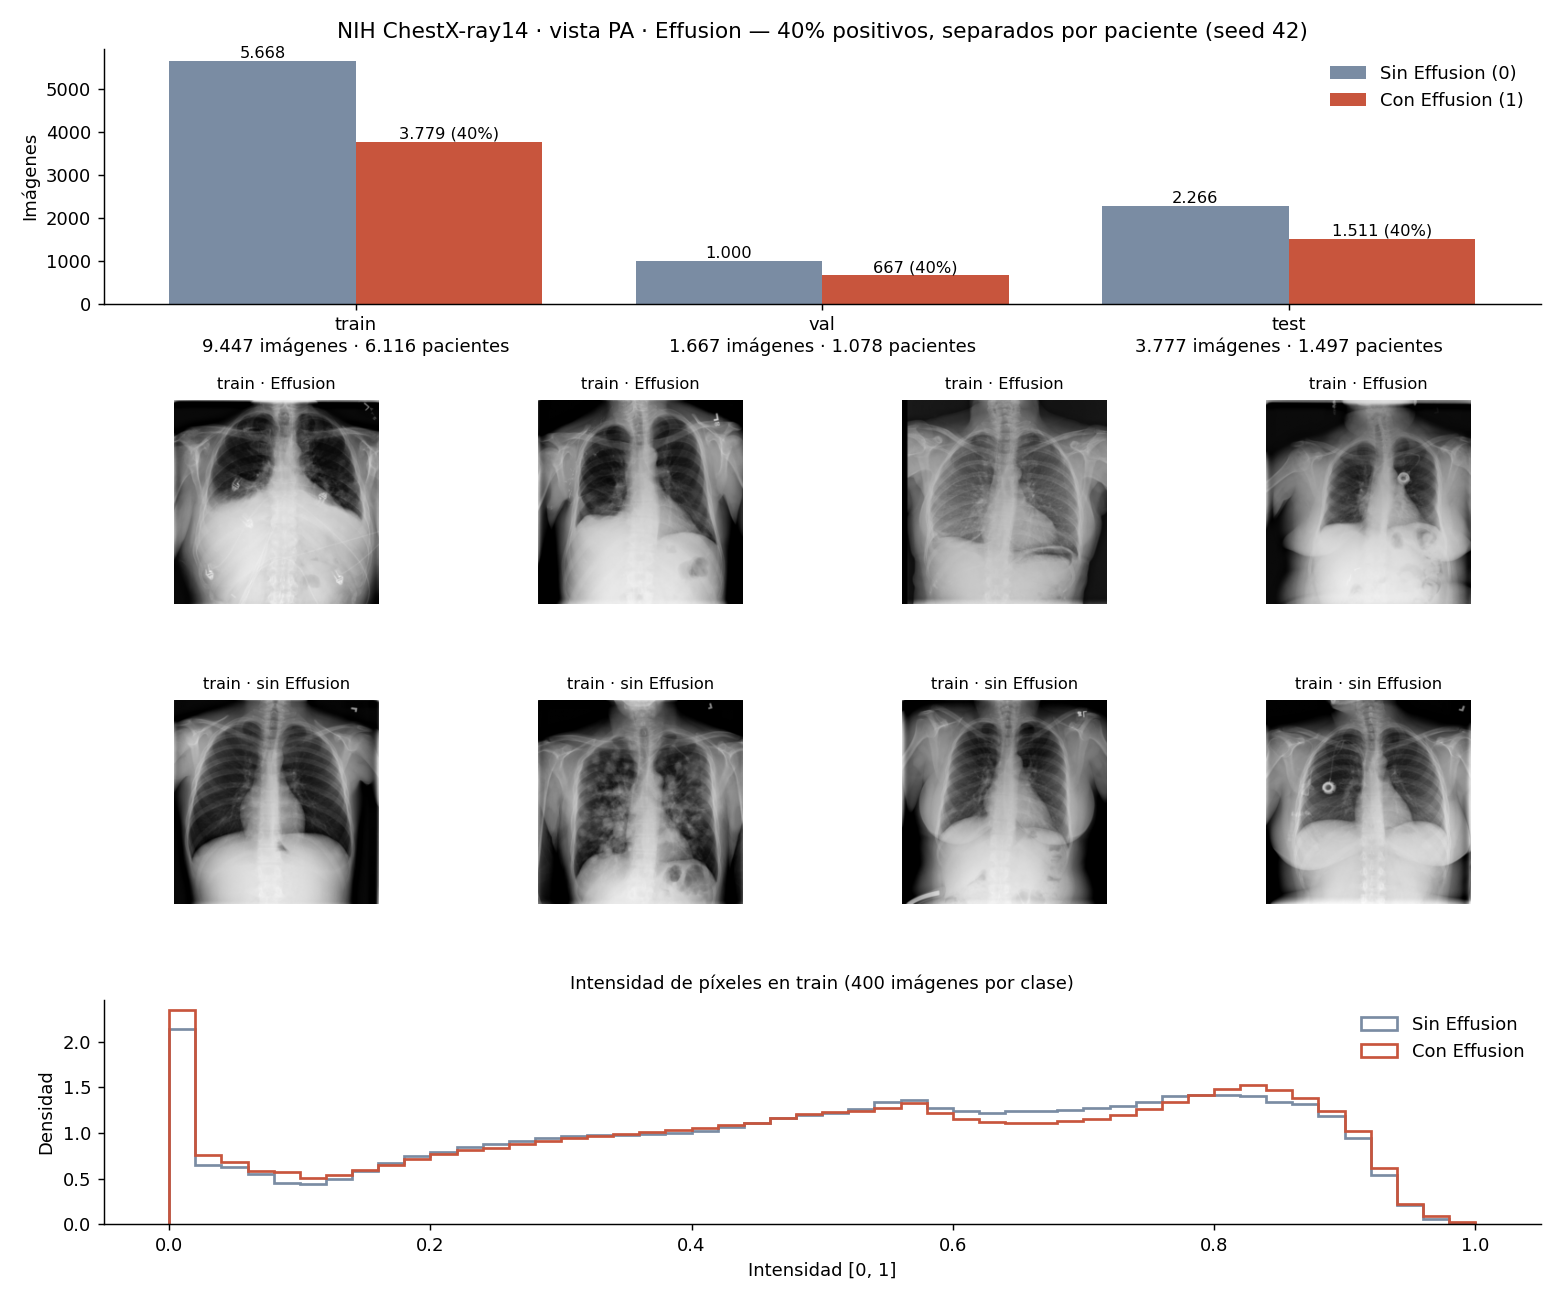
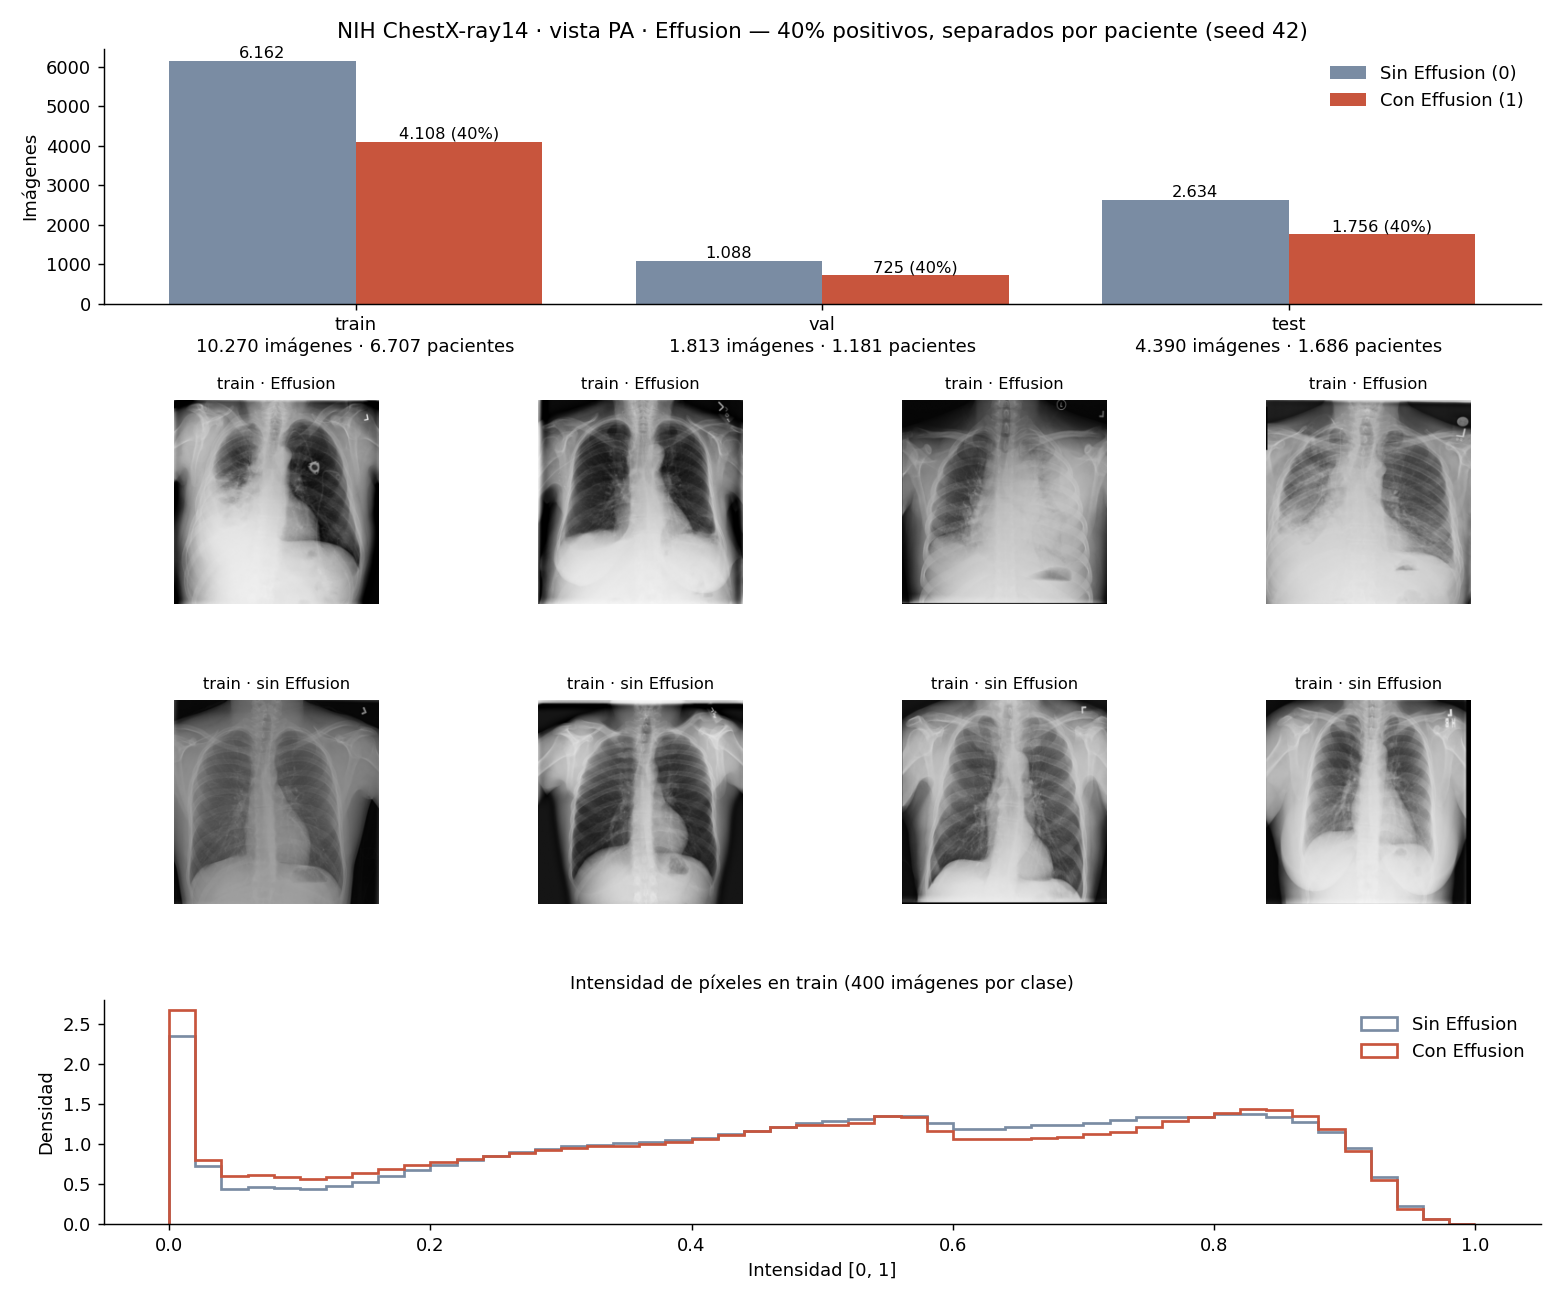
docs: actualiza splits NIH Effusion con images_010

diff --git a/docs/SPLITS_NIH_EFFUSION.md b/docs/SPLITS_NIH_EFFUSION.md
@@ -1,8 +1,8 @@
 # Train, validación y test: NIH ChestX-ray14 · Effusion
 
-**Config:** [`configs/nih.json`](../configs/nih.json) · **Seed:** 42 · **Salida:** `data/processed/nih_effusion_pa_40_60_v1/` (2,8 GB, fuera de git)
+**Config:** [`configs/nih.json`](../configs/nih.json) · **Seed:** 42 · **Salida:** `data/processed/nih_effusion_pa_40_60_v1/` (3,1 GB, fuera de git)
 
-**Comando:** `.venv/bin/python -m rx_torax.prepare --config configs/nih.json`
+**Comando:** `PYTHONPATH=src .venv/bin/python -m rx_torax.prepare --config configs/nih.json`
 
 Reemplaza a la versión de Pneumothorax ([`SPLITS_NIH_PNEUMOTHORAX.md`](SPLITS_NIH_PNEUMOTHORAX.md)), que tenía 3,6% de positivos en train y 13,9% en test.
 
@@ -17,26 +17,23 @@ Clasificación binaria sobre radiografías **PA**:
 
 | Conjunto | Total | Con Effusion | Sin hallazgos | Otros hallazgos | Pacientes |
 |---|---|---|---|---|---|
-| **Train** | 9.447 | 3.779 (40%) | 3.684 (39%) | 1.984 (21%) | 6.116 |
-| **Val** | 1.667 | 667 (40%) | 650 (39%) | 350 (21%) | 1.078 |
-| **Test** | 3.777 | 1.511 (40%) | 1.473 (39%) | 793 (21%) | 1.497 |
-| **Total** | **14.891** | **5.957** | **5.807** | **3.127** | **8.691** |
+| **Train** | 10.270 | 4.108 (40%) | 4.005 (39%) | 2.157 (21%) | 6.707 |
+| **Val** | 1.813 | 725 (40%) | 707 (39%) | 381 (21%) | 1.181 |
+| **Test** | 4.390 | 1.756 (40%) | 1.712 (39%) | 922 (21%) | 1.686 |
+| **Total** | **16.473** | **6.589** | **6.424** | **3.460** | **9.574** |
 
 ## Datos usados
-De las 112.120 filas del CSV:
+De las 112.120 filas del CSV, con los 12 archivos de imágenes completos:
 
 | Motivo | Filas |
 |---|---|
-| Vista AP, excluida | 41.575 |
-| `images_010` no disponible | 10.000 |
+| Vista AP, excluida | 44.810 |
 | Imágenes duplicadas, excluidas | 12 |
-| **Aceptadas (PA)** | **60.533** |
+| **Aceptadas (PA)** | **67.298** |
 
-De las aceptadas se usan todas las positivas (5.957) y una muestra de negativas (8.934). Las demás no se borran: simplemente no entran en los arrays.
+De las aceptadas se usan todas las positivas (6.589) y una muestra de negativas (9.884). Las demás no se borran: simplemente no entran en los arrays.
 
-**Datos incompletos:** falta `images_010`, porque la carpeta descargada como `images 10` es una copia de `images 12`. Con ese archivo se sumarían 632 Effusion PA (~1.580 imágenes en total).
-
-**Ubicación de las imágenes:** el pipeline las busca dentro de `data/raw/nih/`. Hoy `data/raw/nih/images/` tiene enlaces simbólicos a las carpetas descargadas, sin `images 10`, porque los nombres repetidos se excluyen como ambiguos.
+**Ubicación de las imágenes:** el pipeline las busca dentro de `data/raw/nih/`. Hoy `data/raw/nih/images/` tiene enlaces simbólicos a las carpetas descargadas. La carpeta `images 10` no se usa porque es una copia de `images 12`; `images_010` se descargó de nuevo en `images 10 ok`.
 
 ## Flujo aplicado
 1. **Selección de vista:** solo PA.
@@ -44,7 +41,7 @@ De las aceptadas se usan todas las positivas (5.957) y una muestra de negativas 
 3. **Split por paciente:** test es el oficial de NIH. Val es el 15% de los pacientes de `train_val_list.txt`.
 4. **Selección 60/40 en cada conjunto:** todas las positivas y negativas al azar con seed fija. Las negativas son 65% sin hallazgos y 35% con otros hallazgos (mezcla real en PA), con hasta 3 por paciente.
 5. **Transformación:** escala de grises, 224×224 sin deformar (bordes negros) e intensidades en [0, 1].
-6. **Estadísticas solo con train:** media 0,510 y desvío 0,265, guardadas en `preprocessing.json` para aplicarlas sin recalcular a val, test e imágenes nuevas.
+6. **Estadísticas solo con train:** media 0,508 y desvío 0,265, guardadas en `preprocessing.json` para aplicarlas sin recalcular a val, test e imágenes nuevas.
 
 No se repiten imágenes ni se aplica augmentation en esta etapa.
 
@@ -53,19 +50,19 @@ Se validaron contra el CSV original, con un script aparte del pipeline:
 - 0 pacientes compartidos y 0 imágenes idénticas entre conjuntos.
 - Todas las imágenes son PA, y cada `y` coincide con su etiqueta original.
 - Test contiene solo imágenes de `test_list.txt`; train y val, solo de `train_val_list.txt`.
-- Están las 5.957 Effusion PA disponibles.
+- Están las 6.589 Effusion PA disponibles.
 - 40,0% de positivos y 65,0% de negativas sin hallazgos en los tres conjuntos.
 - Máximo de 3 negativas por paciente en cada conjunto.
-- Edad media con/sin Effusion: 51,2/46,9 años en train y 49,3/47,2 en test. Hombres con/sin Effusion: 53%/54% en train y 55%/56% en test.
+- Edad media con/sin Effusion: 51,3/46,5 años en train y 49,9/47,2 en test. Hombres con/sin Effusion: 55%/54% en train y 55%/56% en test.
 
 ## Diferencia con el material de clase
 La [notebook de desbalance](../git-profe/06_feature_engineering_avanzado/03_desbalance.ipynb) y el flujo de preparación balancean **solo train**. Acá también se ajustan val y test porque el profesor pidió el mismo porcentaje en train y test. En val y test solo se eligen imágenes: no se repite ninguna ni se generan sintéticas.
 
-**Consecuencia:** la proporción real en PA es ~10% en todo NIH y 14,9% en el test oficial disponible. Con 40%, la precisión y el F1 salen más altos que con esas proporciones. Recall, especificidad y AUC dependen mucho menos de la proporción.
+**Consecuencia:** la proporción real en PA es ~10% en todo NIH y 15,8% en el test oficial. Con 40%, la precisión y el F1 salen más altos que con esas proporciones. Recall, especificidad y AUC dependen mucho menos de la proporción.
 
 ## Limitaciones
-- **Dispositivos:** en una muestra chica de 96 fotos, revisada a ojo, se ven cables, catéteres, puertos o implantes en ~30% de las positivas y ~13% de las negativas. NIH no los marca, así que siguen incluidos. El modelo podría aprender esa señal: hay que medirlo en la evaluación.
-- **Calidad de imagen:** en una muestra de 4.000 fotos PA, los marcos blancos rondan el 0,3% y el contraste bajo el 1,3%. Se ven legibles, así que no se aplicó ningún filtro.
+- **Dispositivos:** en una muestra chica de 96 fotos de la selección anterior, sin `images_010` y revisada a ojo, se ven cables, catéteres, puertos o implantes en ~30% de las positivas y ~13% de las negativas. NIH no los marca, así que siguen incluidos. El modelo podría aprender esa señal: hay que medirlo en la evaluación.
+- **Calidad de imagen:** en una muestra de 4.000 fotos PA, tomada antes de sumar `images_010`, los marcos blancos rondan el 0,3% y el contraste bajo el 1,3%. Se ven legibles, así que no se aplicó ningún filtro.
 - **Controles previos:** los pacientes con Effusion tienen más estudios previos, lo que puede agregar señales ajenas al hallazgo.
 - **Etiquetas:** NIH las extrajo automáticamente de informes médicos, así que contienen errores.
 - **Test oficial:** sus pacientes tienen más estudios por persona que los de train.
